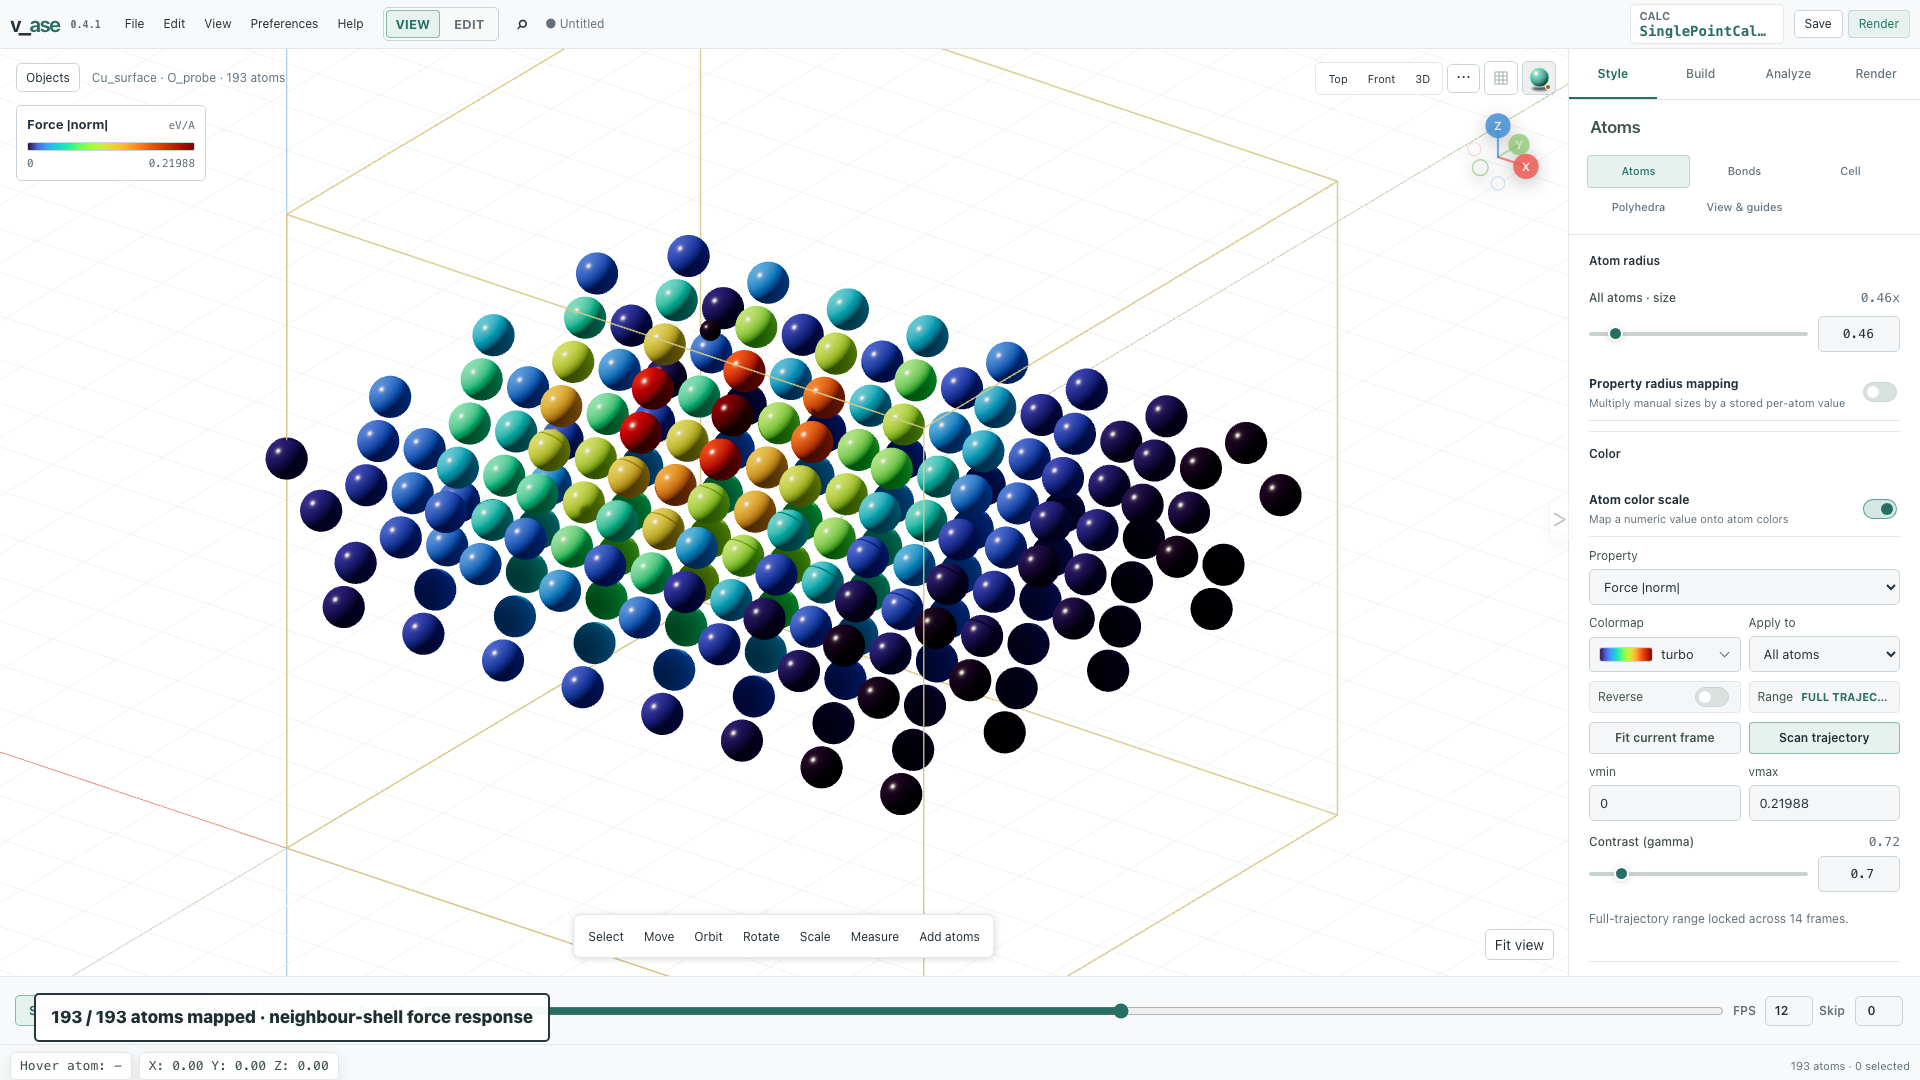
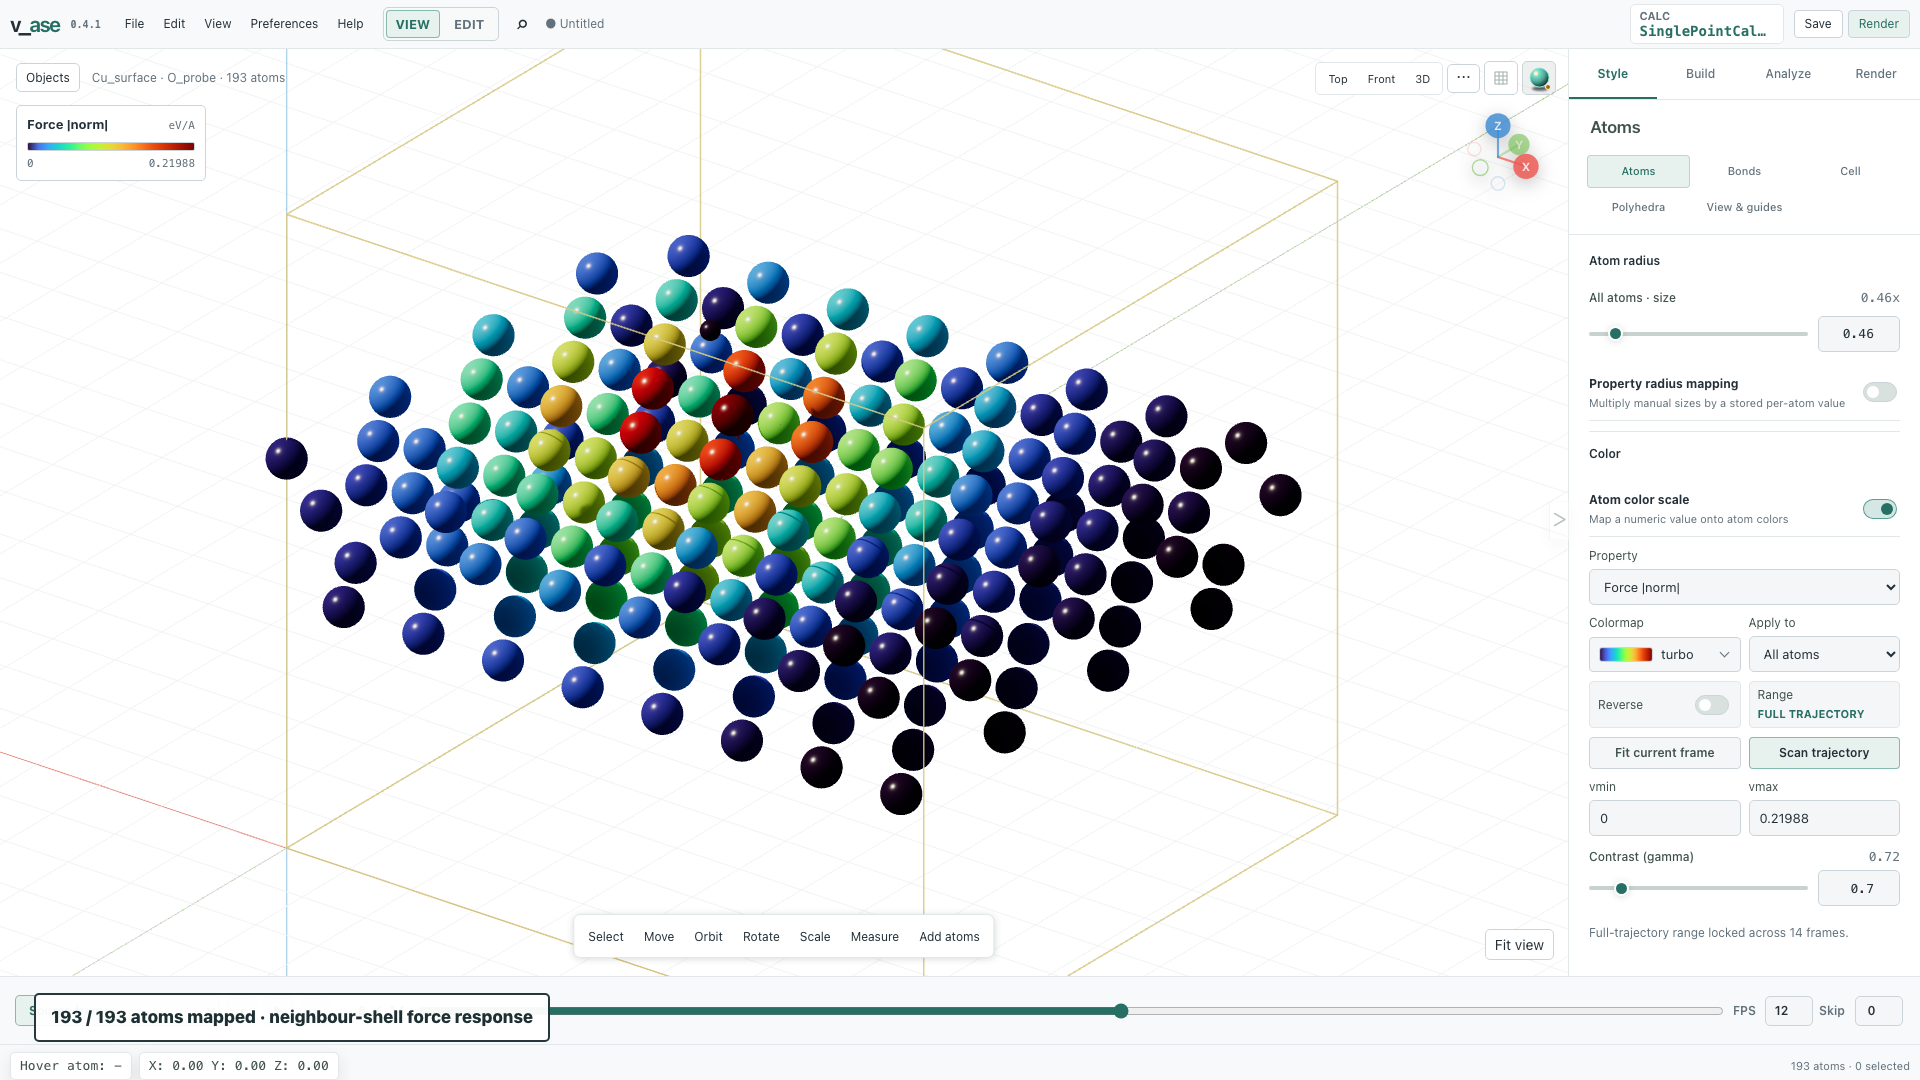
Keep full property-range labels visible in narrow panels

diff --git a/v_ase/static/editor.css b/v_ase/static/editor.css
@@ -272,6 +272,8 @@ body.editor-shell #inspector .renderer-properties > .export-group { margin-top: 
 body.editor-shell #inspector .panel-subhead { font-size: 12px; font-weight: 600; text-transform: none; letter-spacing: 0; }
 body.editor-shell #app-viewport .atom-colorscale-legend { position: absolute; top: 56px; left: 16px; max-width: calc(100% - 132px); color: var(--text); background: var(--panel); box-shadow: none; }
 body.editor-shell .atom-colorscale-legend :is(.atom-colorscale-legend-head span, .atom-colorscale-legend-range) { color: var(--muted); }
+body.editor-shell .atom-colorscale-range-source { flex-direction: column; align-items: flex-start; justify-content: center; gap: 2px; padding-block: 4px; }
+body.editor-shell .atom-colorscale-range-source > strong { max-width: 100%; overflow: visible; white-space: normal; overflow-wrap: anywhere; text-overflow: clip; }
 body.editor-shell .atom-colorscale-legend .atom-colorscale-legend-scope { color: var(--teal-contrast); }
 @media (max-width: 760px) {
     body.editor-shell #app-viewport .atom-colorscale-legend { top: 100px; }

diff --git a/tests/test_browser_ui_geometry.py b/tests/test_browser_ui_geometry.py
@@ -59,6 +59,10 @@ def test_all_tools_and_unit_fields_fit_desktop_narrow_and_mobile():
 
                             const visible = element => element.getClientRects().length
                                 && getComputedStyle(element).visibility !== 'hidden';
+                            const rangeSource = document.getElementById('atom-colorscale-range-source');
+                            if (visible(rangeSource) && rangeSource.scrollWidth > rangeSource.clientWidth + 1) {
+                                issues.push('color range source text clipped');
+                            }
                             if (document.documentElement.scrollWidth > innerWidth + 1) issues.push('page overflow');
                             document.querySelectorAll('#inspector-content input, #inspector-content select, #inspector-content textarea, #inspector-content button').forEach(element => {
                                 if (!visible(element) || element.type === 'hidden') return;
